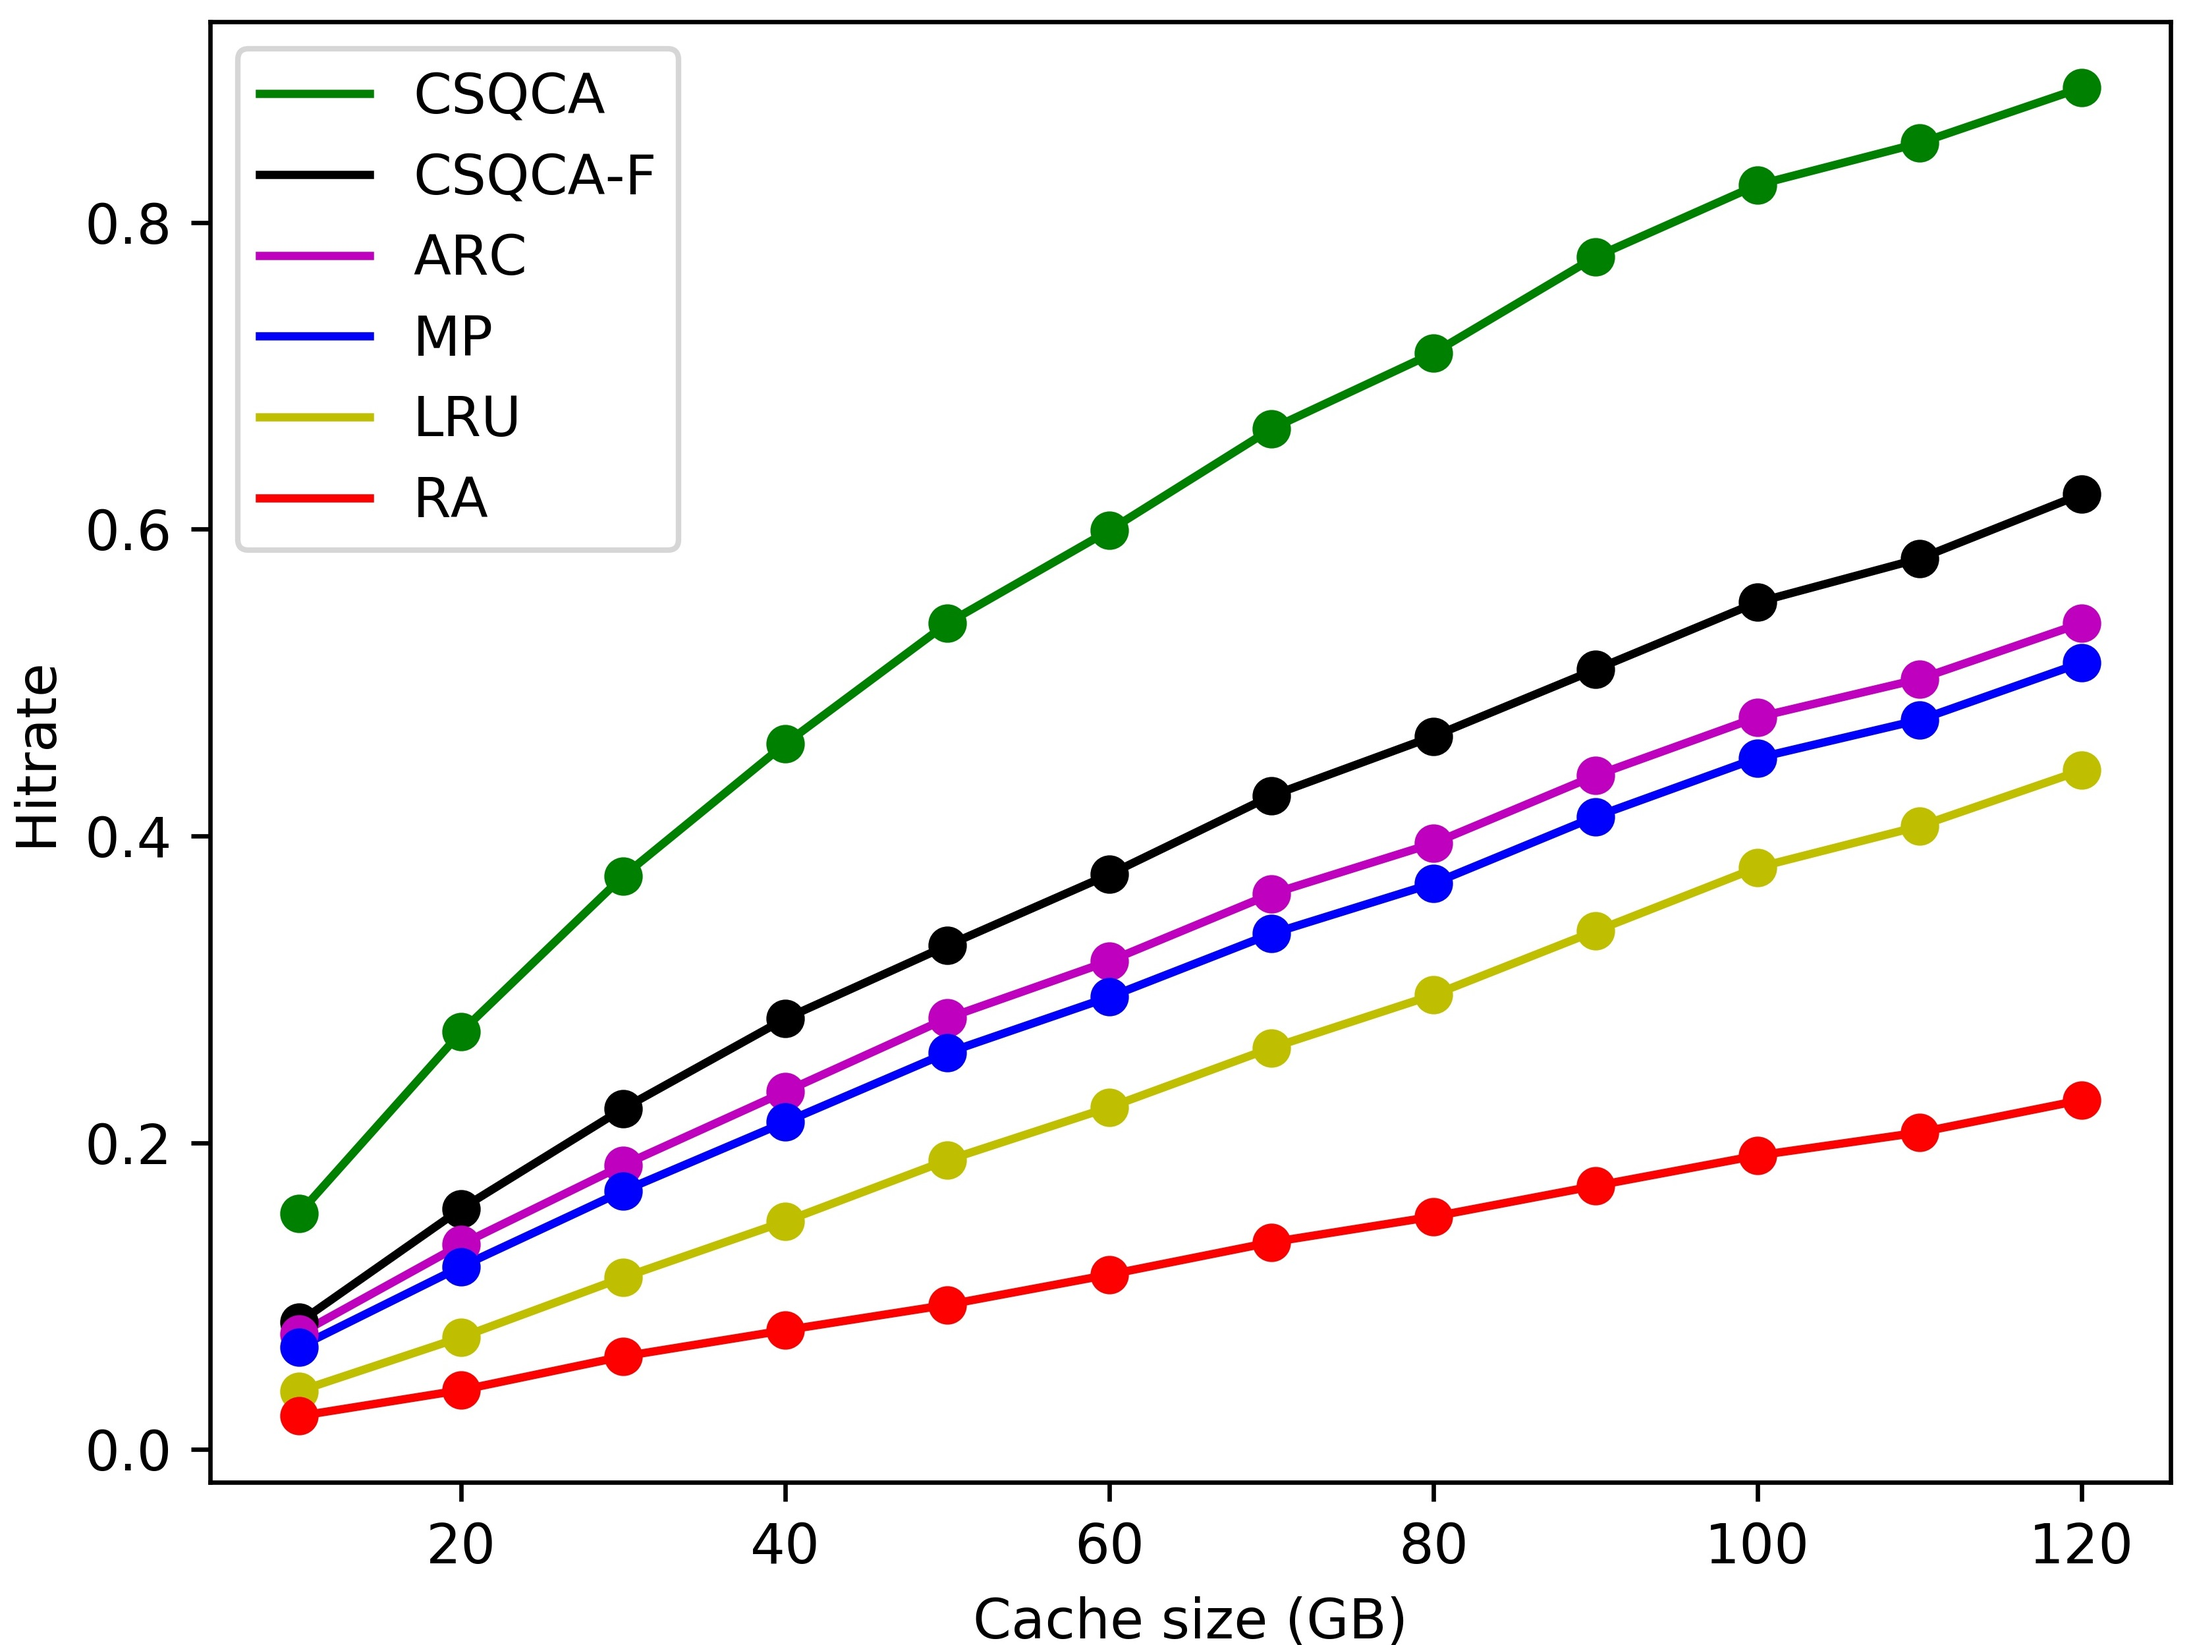
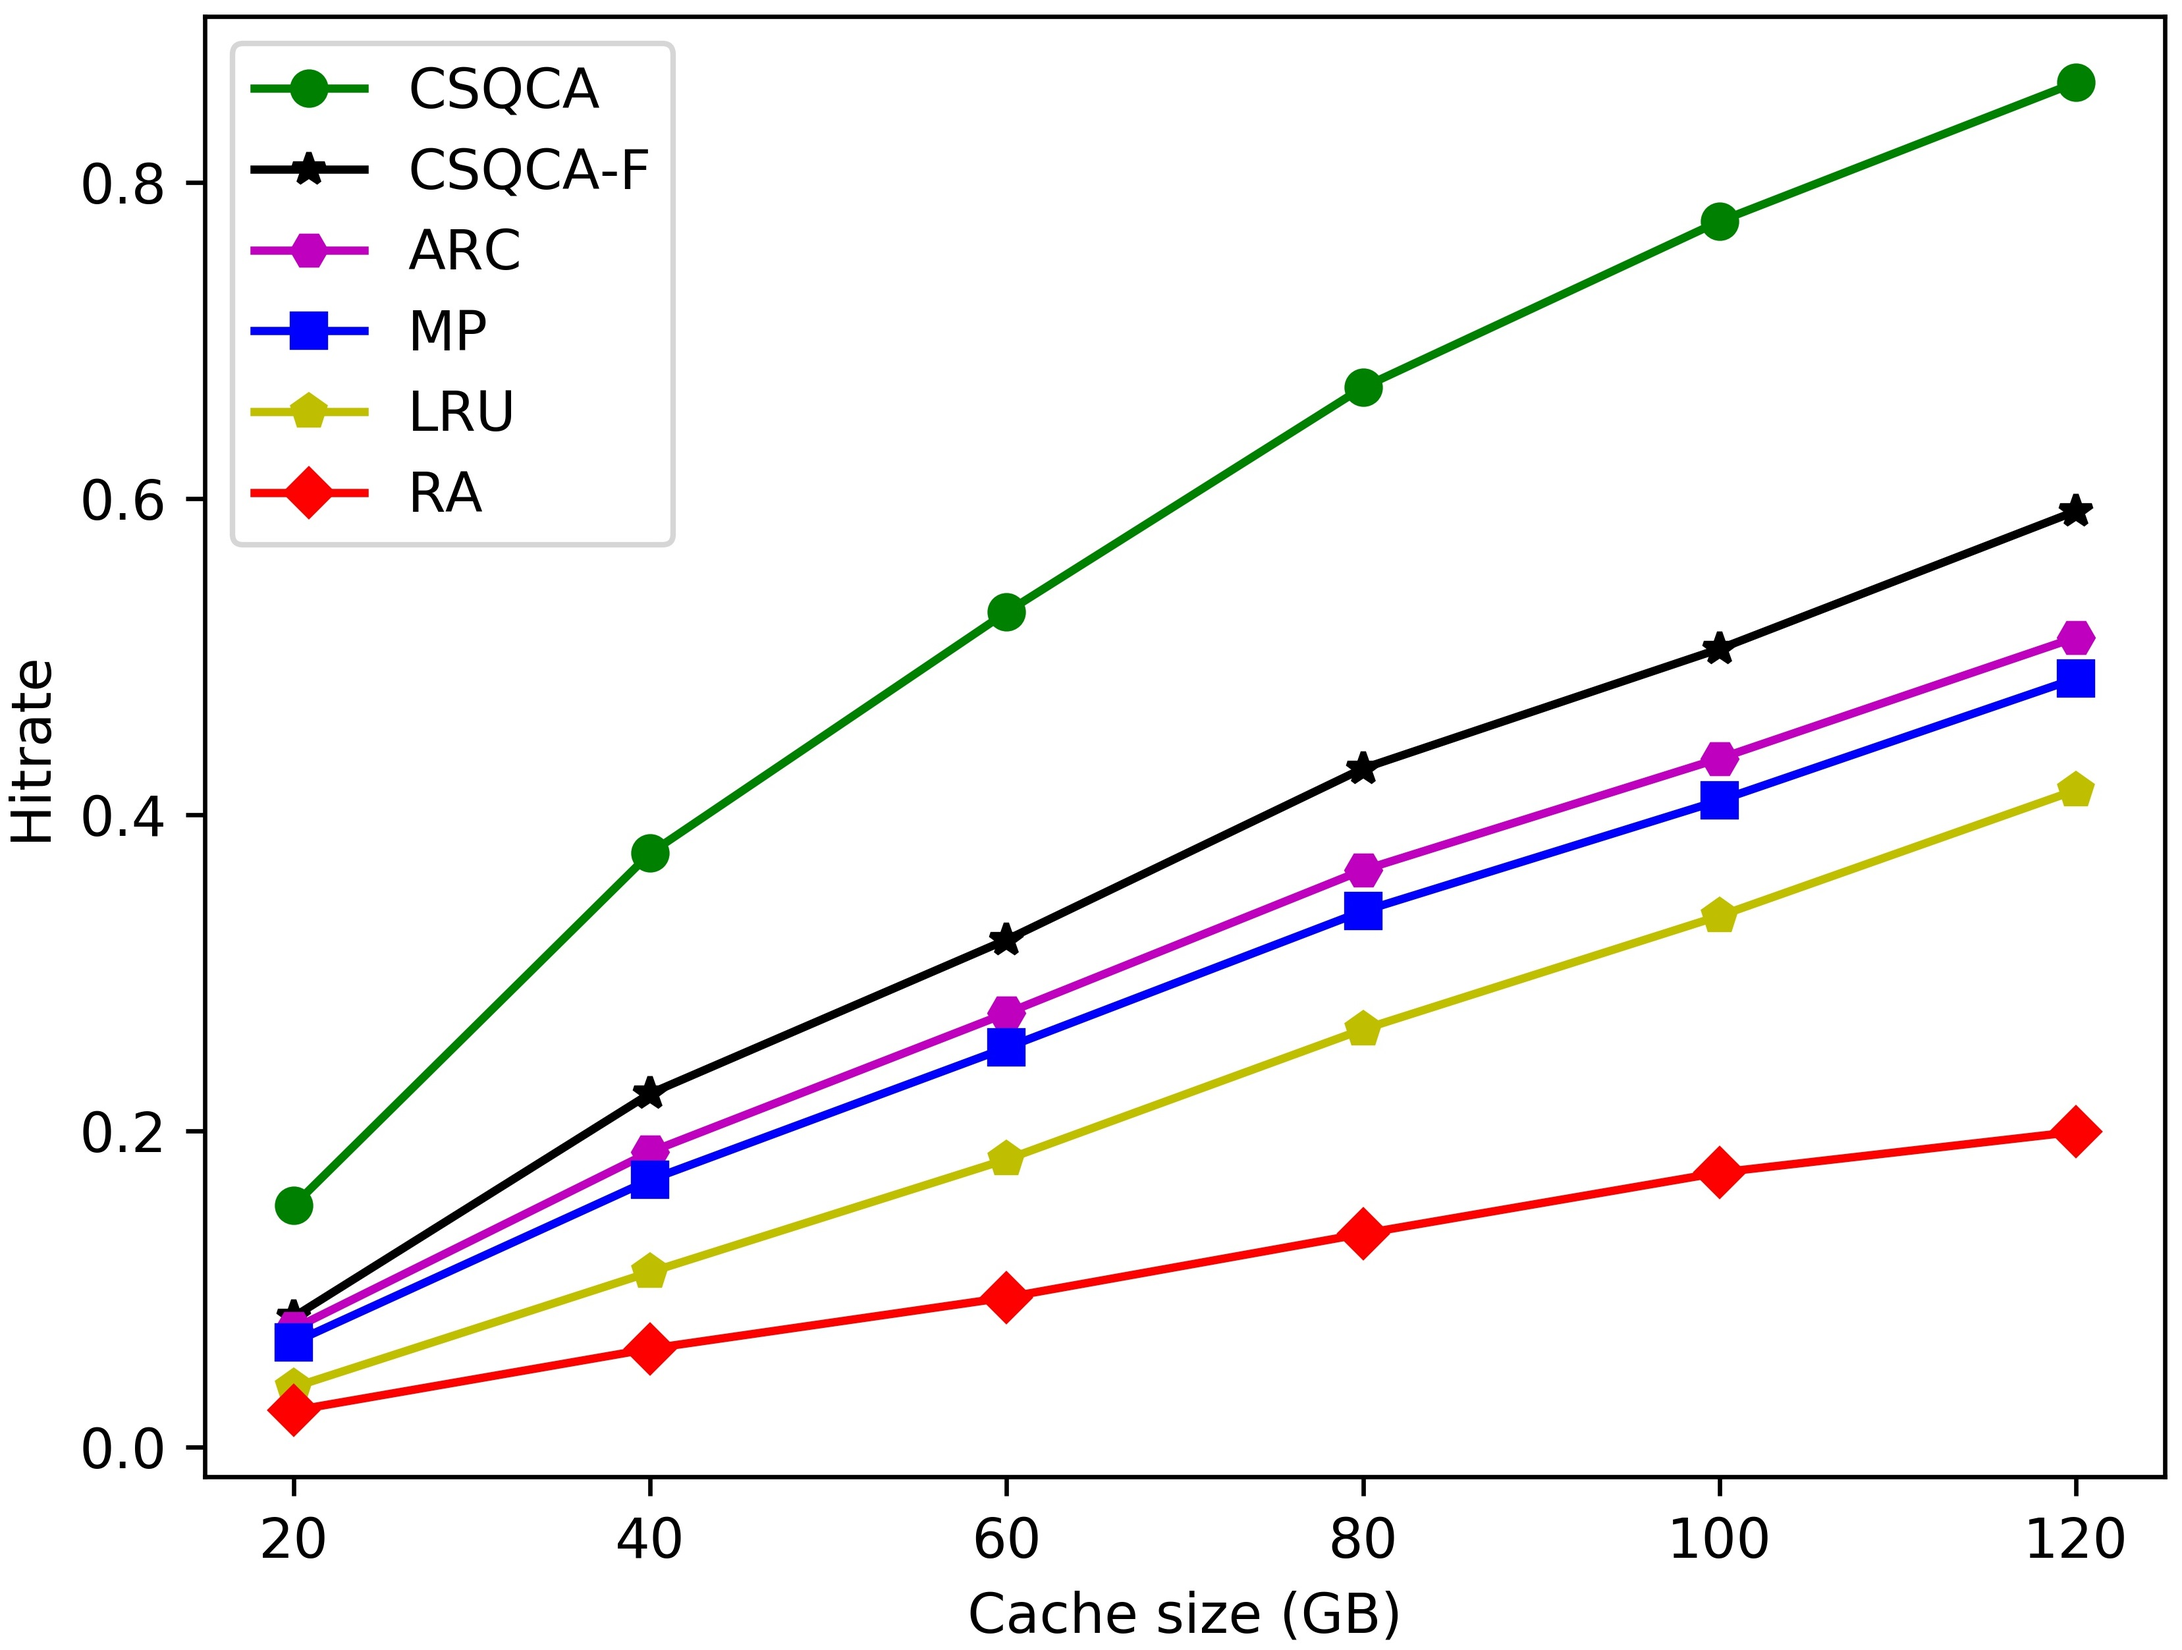
1234567

diff --git a/Rebirth/hit.py b/Rebirth/hit.py
@@ -9,7 +9,7 @@ bounded_zipf = stats.rv_discrete(name='bounded_zipf', values=(bound, weights))
 q=2
 r=4
 size=5
-x_num=12
+x_num=6
 times=1
 poisson=0.07
 x=list()
@@ -26,7 +26,7 @@ for i in range(x_num):
 		cache=list()
 		for alg in range(6):	cache.append([])
 		hit=[0]*6
-		'''for u in range(1900):
+		for u in range(1900):
 			users[str(u)]=dict()
 			users[str(u)]['friend']=dict()
 			users[str(u)]['seen']=set()
@@ -136,8 +136,10 @@ for i in range(x_num):
 							for f in users[u]['friend']:
 								users[u]['friend'][f]=0
 					if day>47:
-						break'''
-		users=dict()
+						for k in range(6):
+							buf[k]+=hit[k]/total						
+						break
+		'''users=dict()
 		video=dict()
 		vr=set()
 		day=0
@@ -185,7 +187,7 @@ for i in range(x_num):
 					#video request
 					for u in users:
 						if users[u]['counter']:
-							if np.random.rand()<poisson:
+							if np.random.rand()<poisson*2:
 								v=str(bounded_zipf.rvs())
 								users[u]['seen'].add(v)
 								requests.append(v)
@@ -256,26 +258,20 @@ for i in range(x_num):
 					if day>47:
 						for k in range(6):
 							buf[k]+=hit[k]/total
-						break
+						break'''
 
 	for k in range(6):
 		perform[k].append(buf[k]/times)
 		print(buf[k]/times)
-	x.append((i+1)*10)
-	size+=5	
-plt.plot(x,perform[0],"g",label='CSQCA')
-plt.plot(x,perform[1],"k",label='CSQCA-F')
-plt.plot(x,perform[2],"m",label='ARC')
-plt.plot(x,perform[3],"b",label='MP')
-plt.plot(x,perform[4],"y",label='LRU')
-plt.plot(x,perform[5],"r",label='RA')
-plt.plot(x,perform[0],"go")
-plt.plot(x,perform[1],"ko")
-plt.plot(x,perform[2],"mo")
-plt.plot(x,perform[3],"bo")
-plt.plot(x,perform[4],"yo")
-plt.plot(x,perform[5],"ro")
+	x.append((i+1)*20)
+	size+=10
+plt.plot(x,perform[0],"go-",label='CSQCA')
+plt.plot(x,perform[1],"k*-",label='CSQCA-F')
+plt.plot(x,perform[2],"mH-",label='ARC')
+plt.plot(x,perform[3],"bs-",label='MP')
+plt.plot(x,perform[4],"yp-",label='LRU')
+plt.plot(x,perform[5],"rD-",label='RA')
 plt.xlabel("Cache size (GB)")
 plt.ylabel("Hitrate")
 plt.legend()
-plt.savefig('hit_size2.jpg', dpi = 600)
+plt.savefig('hit_size1.png', dpi = 600, pad_inches=0)

diff --git a/Rebirth/poisson.py b/Rebirth/poisson.py
@@ -16,7 +16,7 @@ bounded_zipf = stats.rv_discrete(name='bounded_zipf', values=(bound, weights))
 q=2
 r=4
 size=30
-x_num=10
+x_num=6
 times=20
 x=list()
 perform=list()
@@ -111,11 +111,11 @@ for i in range(x_num):
 					for e in sortedv:
 						cache[0].append(e[0])
 						if len(cache[0])>size/0.45:	break
-					sortedv=sorted(video.items(), key=lambda kv: -kv[1]['count'])
+					sortedv=sorted(video.items(), key=lambda kv: -kv[1]['EN'])
 					cache[1]=list()
 					for e in sortedv:
 						cache[1].append(e[0])
-						if len(cache[1])>1.2*size:	break
+						if len(cache[1])>1.125*size:	break
 					sortedv=sorted(video.items(), key=lambda kv: -kv[1]['ARC'])
 					cache[2]=list()
 					for e in sortedv:
@@ -233,7 +233,7 @@ for i in range(x_num):
 					for e in sortedv:
 						cache[0].append(e[0])
 						if len(cache[0])>size/0.45:	break
-					sortedv=sorted(video.items(), key=lambda kv: -kv[1]['count'])
+					sortedv=sorted(video.items(), key=lambda kv: -kv[1]['EN'])
 					cache[1]=list()
 					for e in sortedv:
 						cache[1].append(e[0])
@@ -283,19 +283,13 @@ for i in range(x_num):
 		perform[k].append(buf[k]/times)
 		print(buf[k]/times)
 	x.append(kkk)
-plt.plot(x,perform[0],"g",label='CSQCA')
-plt.plot(x,perform[1],"k",label='CSQCA-F')
-plt.plot(x,perform[2],"m",label='ARC')
-plt.plot(x,perform[3],"b",label='MP')
-plt.plot(x,perform[4],"y",label='LRU')
-plt.plot(x,perform[5],"r",label='RA')
-plt.plot(x,perform[0],"go")
-plt.plot(x,perform[1],"ko")
-plt.plot(x,perform[2],"mo")
-plt.plot(x,perform[3],"bo")
-plt.plot(x,perform[4],"yo")
-plt.plot(x,perform[5],"ro")
+plt.plot(x,perform[0],"go-",label='CSQCA')
+plt.plot(x,perform[1],"k*-",label='CSQCA-F')
+plt.plot(x,perform[2],"mH-",label='ARC')
+plt.plot(x,perform[3],"bs-",label='MP')
+plt.plot(x,perform[4],"yp-",label='LRU')
+plt.plot(x,perform[5],"rD-",label='RA')
 plt.xlabel("k")
 plt.ylabel("QoE")
 plt.legend()
-plt.savefig('QoE_k.jpg', dpi = 600)
+plt.savefig('QoE_k.png', dpi = 600)

diff --git a/Rebirth/QoE_back.py b/Rebirth/QoE_back.py
@@ -15,7 +15,7 @@ bounded_zipf = stats.rv_discrete(name='bounded_zipf', values=(bound, weights))
 q=2
 r=4
 size=25
-x_num=12
+x_num=6
 times=20
 x=list()
 perform=list()
@@ -280,21 +280,15 @@ for i in range(x_num):
 	for k in range(6):
 		perform[k].append(buf[k]/times)
 		print(buf[k]/times)
-	x.append((i+1)*10)
-	ThB+=0.15
-plt.plot(x,perform[0],"g",label='CSQCA')
-plt.plot(x,perform[1],"k",label='CSQCA-F')
-plt.plot(x,perform[2],"m",label='ARC')
-plt.plot(x,perform[3],"b",label='MP')
-plt.plot(x,perform[4],"y",label='LRU')
-plt.plot(x,perform[5],"r",label='RA')
-plt.plot(x,perform[0],"go")
-plt.plot(x,perform[1],"ko")
-plt.plot(x,perform[2],"mo")
-plt.plot(x,perform[3],"bo")
-plt.plot(x,perform[4],"yo")
-plt.plot(x,perform[5],"ro")
+	x.append((i+1)*20)
+	ThB+=0.3
+plt.plot(x,perform[0],"go-",label='CSQCA')
+plt.plot(x,perform[1],"k*-",label='CSQCA-F')
+plt.plot(x,perform[2],"mH-",label='ARC')
+plt.plot(x,perform[3],"bs-",label='MP')
+plt.plot(x,perform[4],"yp-",label='LRU')
+plt.plot(x,perform[5],"rD-",label='RA')
 plt.xlabel("Backhaul Capacity (Mbps)")
 plt.ylabel("QoE")
 plt.legend()
-plt.savefig('QoE_back5.jpg', dpi = 600)
+plt.savefig('QoE_back5.png', dpi = 600)

diff --git a/Rebirth/QoE_size.py b/Rebirth/QoE_size.py
@@ -15,7 +15,7 @@ bounded_zipf = stats.rv_discrete(name='bounded_zipf', values=(bound, weights))
 q=2
 r=4
 size=5
-x_num=12
+x_num=6
 times=20
 x=list()
 perform=list()
@@ -275,21 +275,15 @@ for i in range(x_num):
 	for k in range(6):
 		perform[k].append(buf[k]/times)
 		print(buf[k]/times)
-	x.append((i+1)*10)
-	size+=5
-plt.plot(x,perform[0],"g",label='CSQCA')
-plt.plot(x,perform[1],"k",label='CSQCA-F')
-plt.plot(x,perform[2],"m",label='ARC')
-plt.plot(x,perform[3],"b",label='MP')
-plt.plot(x,perform[4],"y",label='LRU')
-plt.plot(x,perform[5],"r",label='RA')
-plt.plot(x,perform[0],"go")
-plt.plot(x,perform[1],"ko")
-plt.plot(x,perform[2],"mo")
-plt.plot(x,perform[3],"bo")
-plt.plot(x,perform[4],"yo")
-plt.plot(x,perform[5],"ro")
+	x.append((i+1)*20)
+	size+=10
+plt.plot(x,perform[0],"go-",label='CSQCA')
+plt.plot(x,perform[1],"k*-",label='CSQCA-F')
+plt.plot(x,perform[2],"mH-",label='ARC')
+plt.plot(x,perform[3],"bs-",label='MP')
+plt.plot(x,perform[4],"yp-",label='LRU')
+plt.plot(x,perform[5],"rD-",label='RA')
 plt.xlabel("Cache size (GB)")
 plt.ylabel("QoE")
 plt.legend()
-plt.savefig('QoE_size5.jpg', dpi = 600)
+plt.savefig('QoE_size5.png', dpi = 600)

diff --git a/Rebirth/zipf.py b/Rebirth/zipf.py
@@ -7,7 +7,7 @@ q=2
 r=4
 size=10
 x_num=12
-times=20
+times=18
 x=list()
 perform=list()
 for i in range(6):	perform.append([])
@@ -265,19 +265,13 @@ for i in range(x_num):
 		print(buf[k]/times)
 	x.append(alpha)
 	alpha+=0.1
-plt.plot(x,perform[0],"g",label='CSQCA')
-plt.plot(x,perform[1],"k",label='CSQCA-F')
-plt.plot(x,perform[2],"m",label='ARC')
-plt.plot(x,perform[3],"b",label='MP')
-plt.plot(x,perform[4],"y",label='LRU')
-plt.plot(x,perform[5],"r",label='RA')
-plt.plot(x,perform[0],"go")
-plt.plot(x,perform[1],"ko")
-plt.plot(x,perform[2],"mo")
-plt.plot(x,perform[3],"bo")
-plt.plot(x,perform[4],"yo")
-plt.plot(x,perform[5],"ro")
+plt.plot(x,perform[0],"go-",label='CSQCA')
+plt.plot(x,perform[1],"k*-",label='CSQCA-F')
+plt.plot(x,perform[2],"mH-",label='ARC')
+plt.plot(x,perform[3],"bs-",label='MP')
+plt.plot(x,perform[4],"yp-",label='LRU')
+plt.plot(x,perform[5],"rD-",label='RA')
 plt.xlabel("ν")
 plt.ylabel("Hitrate")
 plt.legend()
-plt.savefig('zipf.jpg', dpi = 600)
+plt.savefig('zipf.png', dpi = 600)

diff --git a/Rebirth/time.py b/Rebirth/time.py
@@ -183,8 +183,8 @@ for i in range(x_num):
 							users[u]['friend'][f]=0
 				if day>60:
 					break
-plt.plot(x,perform[0],"g--", label='Dataset 1')
-plt.plot(x,perform[1],"b-.", label='Dataset 2')
+plt.plot(x,perform[0],"b:", label='Dataset 1')
+plt.plot(x,perform[1],"g-", label='Dataset 2')
 plt.xlabel("Time slots (day)")
 plt.ylabel("Number of requests")
 plt.legend()
